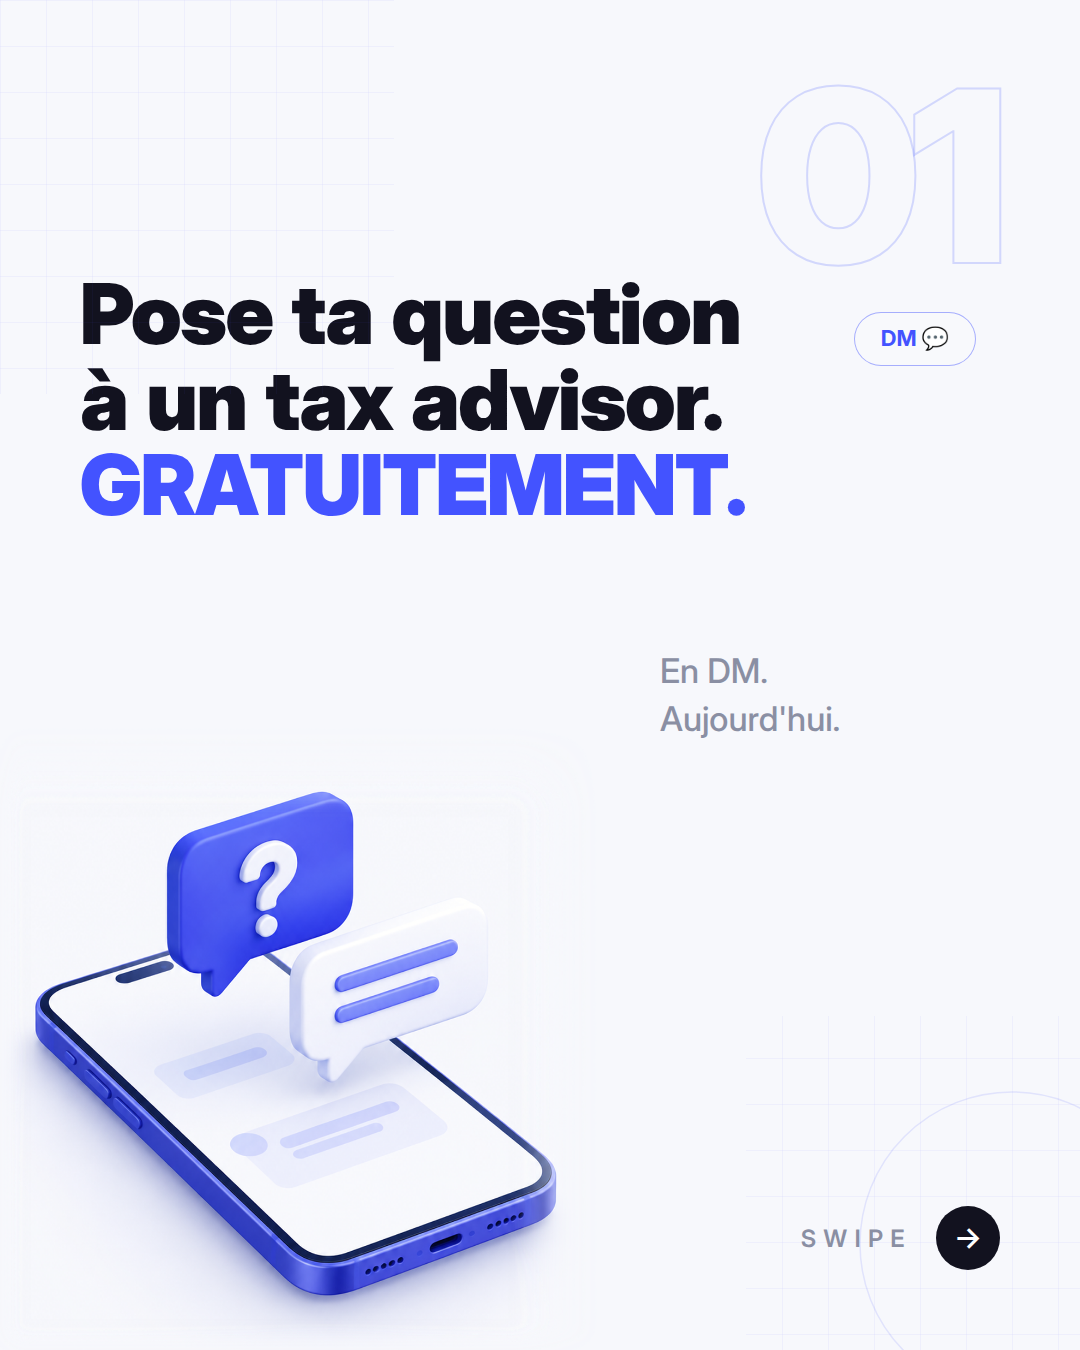
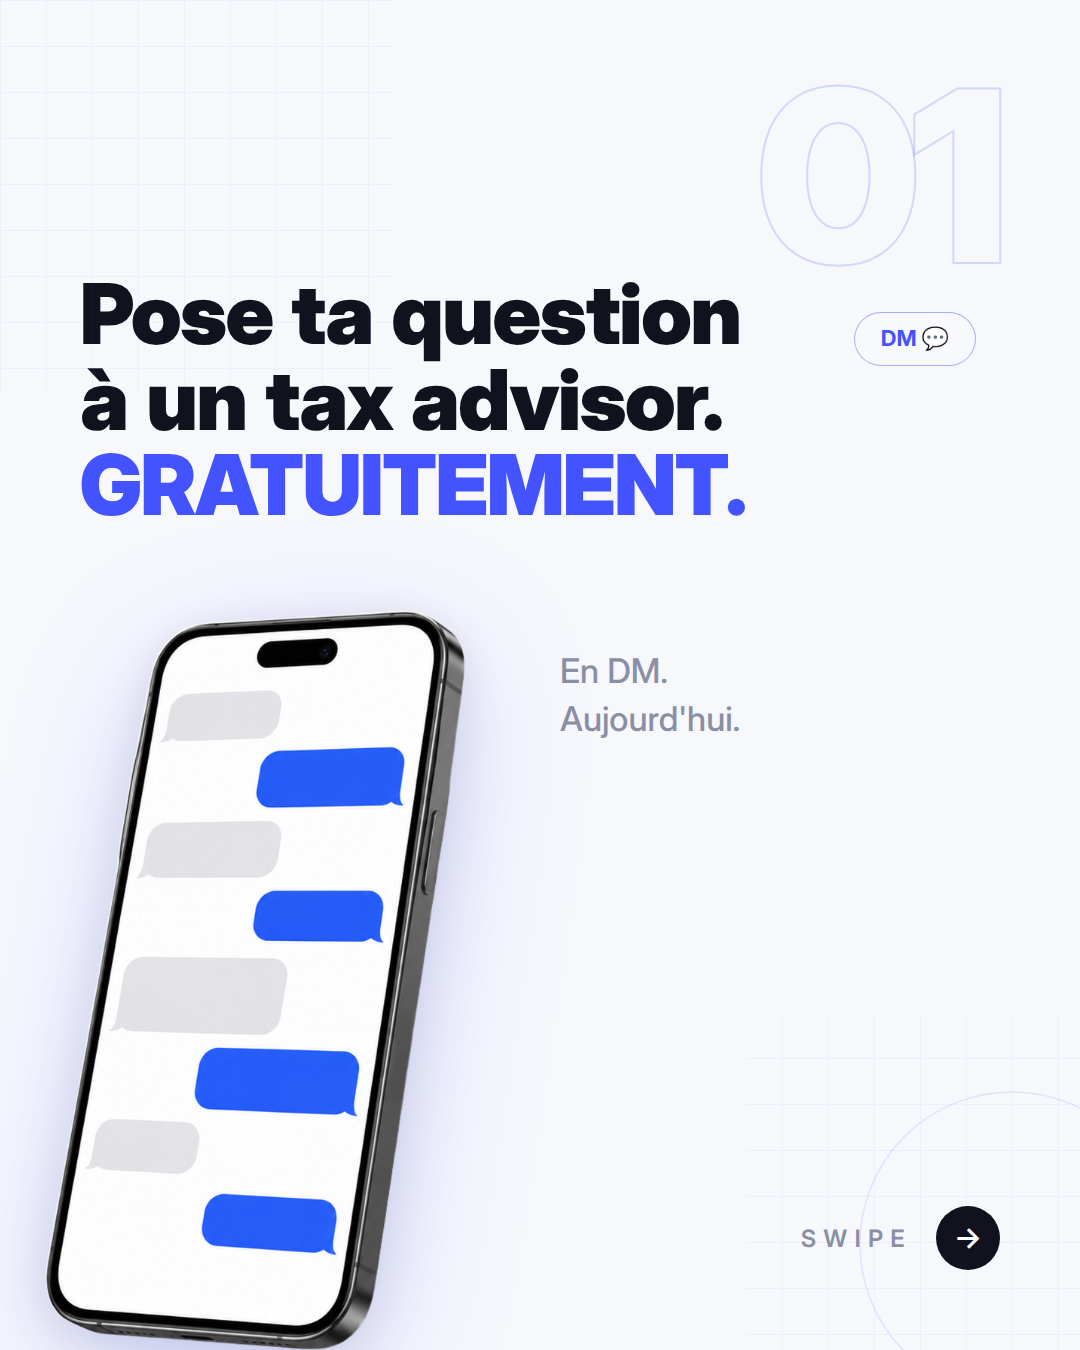
Slide 1 du deck DM : iPhone photorealiste detoure
Remplace l'illustration 3D stylisee par une vraie photo produit :
- generation Higgsfield de 4 variantes photorealistes, ecran affichant
  des bulles de conversation pleines, sans aucun texte ni logo
- detourage via le remove_background de Higgsfield -> alpha propre,
  recadre au pixel sur l'appareil
- pose en bas gauche a 742px de haut (55% de la slide), avec l'ombre
  bleue diffuse du design system appliquee en CSS (drop-shadow) plutot
  que l'ombre du rendu d'origine

Les bulles de l'ecran ressortent a (40, 94, 248), a un cheveu du bleu
de marque #4353FF : conservees telles quelles, aucune retouche.

Claude-Session: https://claude.ai/code/session_01JgjaVc8GDMA4sZRNpbXpxq

Changed region(s): [[0.0306, 0.4356, 0.5194, 1.0], [0.5194, 0.4667, 0.7639, 0.56]]

diff --git a/carrousel/src/style.css b/carrousel/src/style.css
@@ -212,7 +212,11 @@ html, body {
 .bubble--r { align-self: flex-end;  max-width: 80%; border-bottom-right-radius: 8px; text-align: right; }
 
 /* ---------- illustration de couverture (deck DM, slide 1) ---------- */
-.illus { position: absolute; left: 0; bottom: 0; width: 600px; }
+.illus {
+  position: absolute; left: 44px; bottom: 0; height: 742px;
+  filter: drop-shadow(0 34px 64px rgba(67, 83, 255, 0.22))
+          drop-shadow(0 8px 18px rgba(18, 18, 31, 0.10));
+}
 .illus-ph {
   position: absolute; left: 40px; bottom: 60px; width: 470px; height: 560px;
   border: 2px dashed rgba(67, 83, 255, 0.28); border-radius: var(--r);

diff --git a/carrousel/slides/dm/slide-01.html b/carrousel/slides/dm/slide-01.html
@@ -25,7 +25,7 @@
         Pose ta question<br>à un tax advisor.<br><span class="blue">GRATUITEMENT.</span>
       </h1>
       <span class="float" style="top:312px;right:104px">DM 💬</span>
-      <p class="body muted" style="position:absolute;top:648px;left:660px;width:340px;font-size:34px">
+      <p class="body muted" style="position:absolute;top:648px;left:560px;width:440px;font-size:34px">
         En DM.<br>Aujourd'hui.
       </p>
       <img class="illus bleed" src="../../assets/dm-illustration.png" alt="">

diff --git a/carrousel/src/slides-dm.js b/carrousel/src/slides-dm.js
@@ -37,7 +37,7 @@ module.exports = { DECOR, slides: [
         Pose ta question<br>à un tax advisor.<br><span class="blue">GRATUITEMENT.</span>
       </h1>
       <span class="float" style="top:312px;right:104px">DM 💬</span>
-      <p class="body muted" style="position:absolute;top:648px;left:660px;width:340px;font-size:34px">
+      <p class="body muted" style="position:absolute;top:648px;left:560px;width:440px;font-size:34px">
         En DM.<br>Aujourd'hui.
       </p>
       ${illusBlock}
